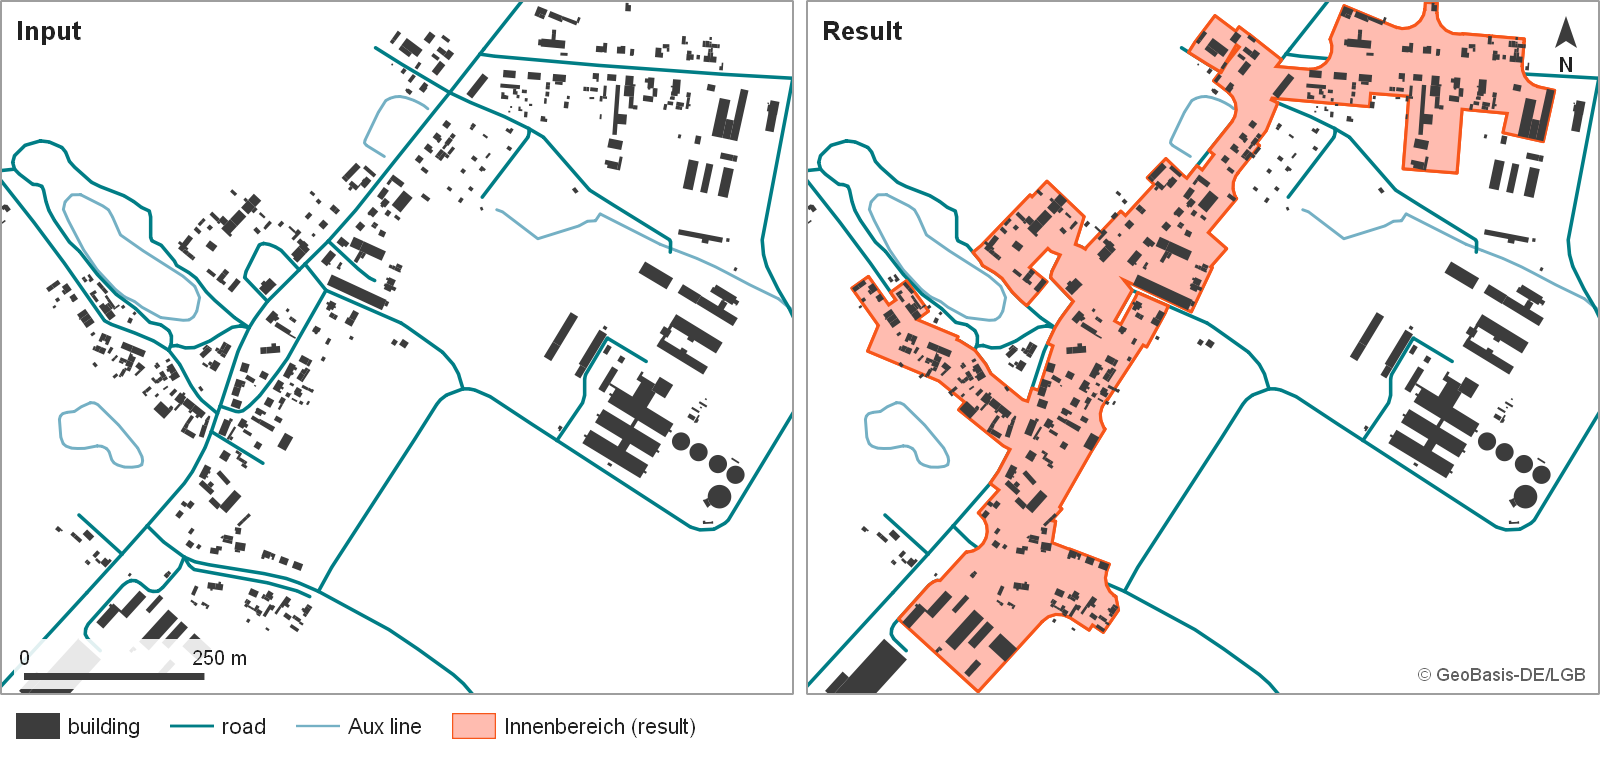
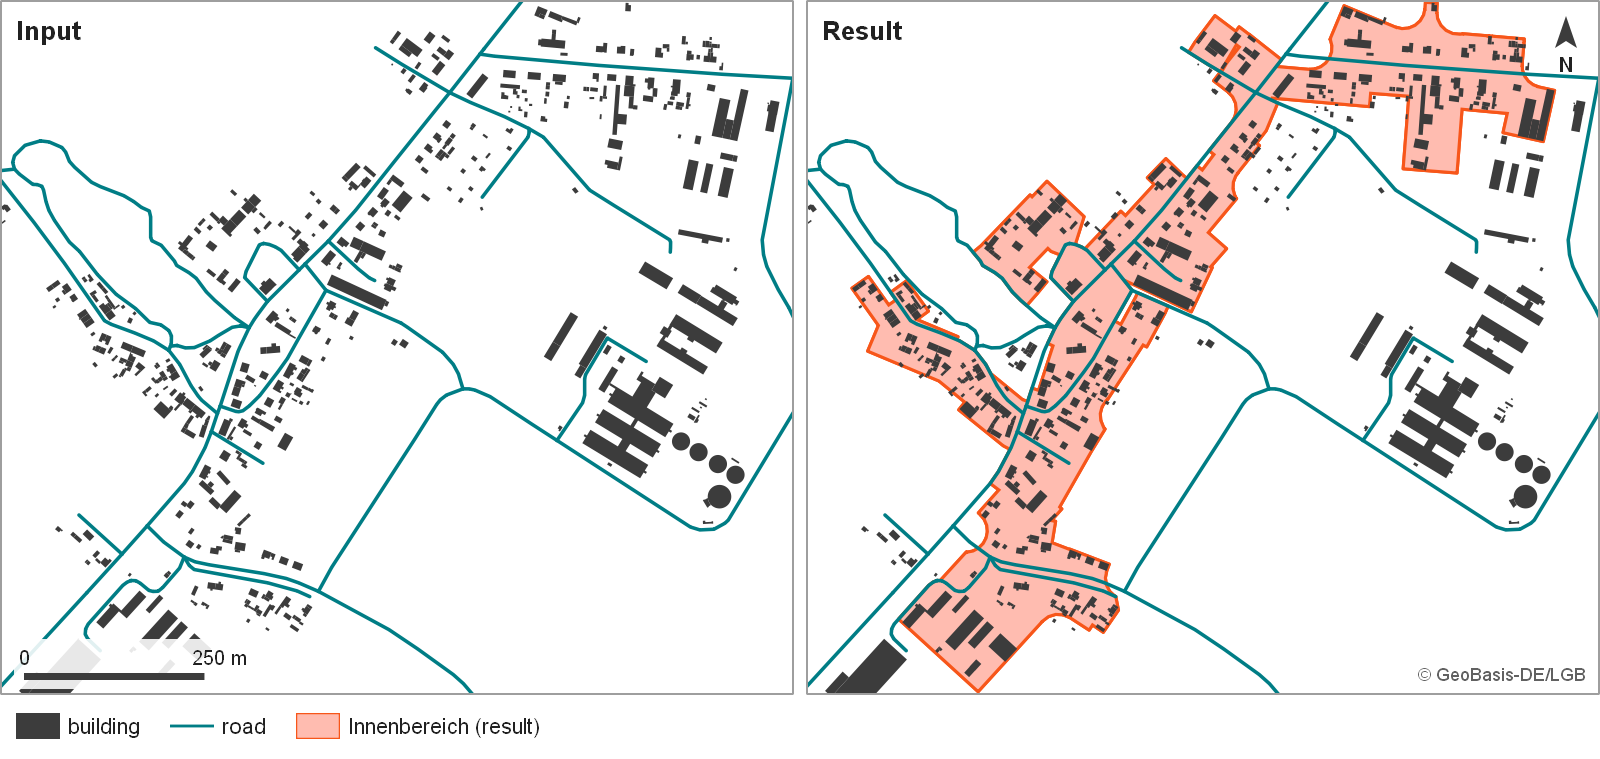
fix: remove TODO in edge filtering, localize phase labels, and refine docs/tests
- Confirmed and updated `"Area" < {area * AREA_FILTER_FACTOR}`.
- Document `_MIN_BUILDING_COUNT = 20` in ImportFilter logic.
- Phase labels localized; added matching unit test.

diff --git a/i18n/IBTool_de.ts b/i18n/IBTool_de.ts
@@ -368,6 +368,14 @@ Diese Aktion kann nicht rückgängig gemacht werden.</translation>
         <translation>Leerflächen erodieren</translation>
     </message>
     <message>
+        <source>Close Gaps</source>
+        <translation>Lücken schließen</translation>
+    </message>
+    <message>
+        <source>Remove Patches</source>
+        <translation>Splitterflächen entfernen</translation>
+    </message>
+    <message>
         <source>Save Output</source>
         <translation>Ausgabe speichern</translation>
     </message>

diff --git a/docs/img/_src/make_map_figures.py b/docs/img/_src/make_map_figures.py
@@ -73,10 +73,10 @@ FIGURES = {
         "out": "readme",
         "center": VILLAGE_CENTER, "width_m": 1100, "ratio": 7 / 8,
         "tiles": [
-            ("Input", [B_AUX, B_RN, B_HU]),
-            ("Result", [B_AUX, B_RN, B_RESULT, B_HU]),
+            ("Input", [B_RN, B_HU]),
+            ("Result", [B_RESULT, B_RN, B_HU]),
         ],
-        "legend": [(B_HU, "building"), (B_RN, "road"), (B_AUX, "Aux line"),
+        "legend": [(B_HU, "building"), (B_RN, "road"),
                    (B_RESULT, "Innenbereich (result)")],
     },
     # F16 - the line and building input layers (Part: F17, at a larger scale)

diff --git a/helpers/edge_catch_utils.py b/helpers/edge_catch_utils.py
@@ -989,7 +989,7 @@ def process_single_feature(
     shp_area2(polygons_in_block)
     polygons_small = safe_processing_run("native:extractbyexpression", {
         'INPUT': polygons_in_block,
-        'EXPRESSION': f'"Area" < {area * AREA_FILTER_FACTOR}',  # TODO: verify operator direction
+        'EXPRESSION': f'"Area" < {area * AREA_FILTER_FACTOR}',
         'OUTPUT': QgsProcessing.TEMPORARY_OUTPUT
     }, **_dbg)['OUTPUT']
 

diff --git a/docs/superpowers/plans/2026-09-24-documentation-figures.md b/docs/superpowers/plans/2026-09-24-documentation-figures.md
@@ -23,7 +23,7 @@ Tick a session when all its tasks are done. Figure IDs (F01–F22) are stable re
 - [x] Session 6 — Algorithm schematics (F10a–F10e) — *Claude drafts SVGs*
 - [x] Session 7 — Parameter figures (F12–F15) — F13–F15 done, F12 dropped
 - [x] Session 8 — Input data and data preparation figures (F16, F17, F20, F21) — F20 and F21 dropped
-- [ ] Session 9 — Optional figures (F11, F22) and final review
+- [ ] Session 9 — Optional figures (F11, F22) and final review — F11/F22 dropped; checks done, GitHub visual check open (user)
 
 Recommended order follows priority: 0 → 1 → 2 → 5 → 3 → 4 → 6 → 7 → 8 → 9.
 
@@ -198,10 +198,10 @@ No image files. Verify rendering by pushing the branch and viewing the files on 
 
 **Files:** Create `docs/img/readme/01_before_after.png`; modify `README.md` (directly below the badges, above "Quick Start")
 
-- [x] **Content:** two tiles side by side, same reference extent. Left: buildings + roads + Aux ("Input"). Right: same plus the Innenbereich result ("Result"). Tile labels in the top-left corner.
-- [ ] **Format:** PNG, 1600 × 700 px (2 × 800 × 700), display width 800.
-- [ ] Caption: *IB-Tool 3 derives the Innenbereich (§ 34 BauGB) from building footprints and the road network. Data: © GeoBasis-DE/LGB.*
-- [ ] Also suitable as screenshot for plugins.qgis.org — note this in the Session 9 review.
+- [x] **Content:** two tiles side by side, same reference extent. Left: buildings + roads ("Input"). Right: same plus the Innenbereich result, drawn beneath buildings and roads ("Result"). *No Aux lines (user review, 2026-10-04).* Tile labels in the top-left corner.
+- [x] **Format:** PNG, 1600 × 700 px (2 × 800 × 700), display width 800. *Exported at 1600 × 759 (8:7 tiles plus legend strip).*
+- [x] Caption: *IB-Tool 3 derives the Innenbereich (§ 34 BauGB) from building footprints and the road network. Data: © GeoBasis-DE/LGB.*
+- [x] Also suitable as screenshot for plugins.qgis.org — note this in the Session 9 review.
 
 ### Task F07: Expected result of the first run
 
@@ -329,9 +329,9 @@ All five SVGs are generated by `docs/img/_src/make_schematics.py` (stdlib only; 
 
 ## Session 9 — Optional figures and final review
 
-- [ ] **F11 accuracy chart (optional)** — `docs/img/how-it-works/11_accuracy.svg`, 600 × 200, horizontal bars for the three study areas. Load the `dataviz` skill before drawing.
-- [ ] **F22 Innenbereich vs. UGB (optional)** — `docs/img/terminology/22_innenbereich_vs_ugb.svg`, 700 × 300: boundary around existing development vs. policy line further out for future growth.
-- [ ] **Link check** — every `<img src=...>` points to an existing file:
+- [~] **F11 accuracy chart (optional)** — *dropped (user, 2026-10-04): the three-row table says it all.* — `docs/img/how-it-works/11_accuracy.svg`, 600 × 200, horizontal bars for the three study areas. Load the `dataviz` skill before drawing.
+- [~] **F22 Innenbereich vs. UGB (optional)** — *dropped (user, 2026-10-04): the table in `terminology.md` covers it.* — `docs/img/terminology/22_innenbereich_vs_ugb.svg`, 700 × 300: boundary around existing development vs. policy line further out for future growth.
+- [x] **Link check** — every `<img src=...>` points to an existing file *(2026-10-04: 19 referenced, none missing, no unreferenced image in `docs/img/` outside `_src/`)*:
 
 ```bash
 grep -rhoE 'img/[A-Za-z0-9_/.-]+\.(png|svg|jpg|webp)' README.md docs/*.md | sort -u | while read p; do
@@ -339,7 +339,7 @@ grep -rhoE 'img/[A-Za-z0-9_/.-]+\.(png|svg|jpg|webp)' README.md docs/*.md | sort
 done
 ```
 
-- [ ] **Size check** — no image above its size budget:
+- [x] **Size check** — no image above its size budget *(2026-10-04: no PNG > 500 KB, no SVG > 50 KB)*:
 
 ```bash
 find docs/img -type f \( -name '*.png' -o -name '*.jpg' -o -name '*.webp' \) -size +500k
@@ -347,10 +347,22 @@ find docs/img -type f -name '*.svg' -size +50k
 ```
 
 - [ ] **Visual check on GitHub** — view README and all touched docs in light **and** dark mode.
-- [ ] **Alt texts** — every `<img>` has a meaningful `alt`.
+- [x] **Alt texts** — every `<img>` has a meaningful `alt`. *(2026-10-04: all 18 figures OK; the Codecov badge in `README.md` got `alt="Code coverage"`.)*
 - [x] **plugins.qgis.org** — decided (user, 2026-10-04): F01 (`docs/img/readme/01_before_after.png`) is attached as the plugin screenshot.
-- [ ] **CHANGELOG** — add an entry to `docs/CHANGELOG.md` ("docs: add figures to user documentation").
+- [x] **CHANGELOG** — add an entry to `docs/CHANGELOG.md` ("docs: add figures to user documentation"). *(Already covered by the per-session entries under Unreleased → Docs: schematics, parameter figures, Mermaid diagrams, map series, hero image, input layers/partitions. Screenshots of Sessions 2–4 still need an entry when added.)*
 - [ ] Commit only when the user explicitly asks (per session or at the end).
+
+---
+
+## Code Findings (follow-up after Session 9)
+
+Found while producing the figures; not fixed yet. Review each one with the user, then fix as a separate bugfix task (`ai/tasks/bugfix-task.md`, test first).
+
+| ID | Location | Finding | Effect | Status |
+|---|---|---|---|---|
+| C1 | `ibtool/ibtool.py:1263` | The phase before `patch_remove()` is labelled `"Erode Empty Areas"`, but ErodeEmptyAreas and GapClose already ran before it (lines 1252–1261, without their own phase update). Phase 6 is also used twice (90 % here, 95 % "Save Output" at line 1456). | Progress label is misleading: during PatchRemove the user reads "Erode Empty Areas"; MST_Clustering through GapClose all run under "Clustering". | fixed 2026-10-04: nine phases, one label per tool (Erode Empty Areas, Close Gaps, Remove Patches); test `test_phase_label_matches_running_tool` |
+| C2 | `ibtool_tools/ImportFilter.py:178` | Guard `if building_count > min_area:` compares the feature count of `hu_layer` with the area threshold `min_area` (m², default 56.8). The docstring (lines 159–161) documents this behaviour. Otherwise the function logs a warning and returns `hu_layer` unfiltered (line 324–328). | A partition with ≤ 56 buildings skips the whole ImportFilter (no positive/negative filter, no small-building removal); changing `min_area` silently changes this count limit too. Intent unclear: a minimum building count may be wanted, but then it needs its own constant. | fixed 2026-10-04 (user: count, not area): guard `building_count > _MIN_BUILDING_COUNT` (20, as `PatchRemove.DEFAULT_MIN_BDG_COUNT`); two tests in `test_import_filter.py` |
+| C3 | `helpers/edge_catch_utils.py:992` | `"Area" < {area * AREA_FILTER_FACTOR}` carries `# TODO: verify operator direction`. | The documentation (how-it-works Step 7, schematic F10c) describes pieces **smaller** than 2 × rectangle area being kept — matches `<`. Needs confirmation against the intended algorithm, then the TODO can be removed. | fixed 2026-10-04: `<` confirmed by the user, TODO removed |
 
 ---
 
@@ -375,3 +387,6 @@ Record per session what was done and anything open, so the next session can resu
 | 2026-10-04 | 1 / 5 (rev.) | User review: (1) F08 pipeline diagram reorganised for less height — horizontal rows for inputs, global preparation, the three step groups and the output; edges connect the group boxes, so arrowheads end at the box edges; no wrapped labels (wrappingWidth 300); rendered height about 40 % lower. (2) F09-07: only the area EdgeCatch adds (computed `polygons_merged` − rectangles) is light blue, the rectangles stay pink; caption and alt text updated. | — |
 | 2026-10-04 | 2 / 7 / 8 | F01 README hero (`docs/img/readme/01_before_after.png`, 1600 × 759, Input / Result), F16 (3 tiles), F17 (partitions) exported by `make_map_figures.py` (new spec keys `out`, `center` / `width_m`, `ratio`; legend optional); F20 SVG by the new `make_data_prep_figures.py` (asserts: 3 buildings cut by the tight polygon, none at the area of interest by the generous one). Embedded in README, `input-data.md`, `data-preparation.md`. | Rulings: (1) F01 uses an 8:7 window around the whole village (1100 × 962 m, centre 439280 / 5837922), not the reference extent: the village reaches south of it, and the window lies inside PART_31 so the result is complete. (2) F16 without Part (see checkbox). (3) F12 and F21 dropped (no case in the sample). Open: F07 and Sessions 3 / 4 (screenshots, user), Session 9. |
 | 2026-10-04 | 8 / 9 | User review: F20 dropped (SVG, embed in `data-preparation.md` and `make_data_prep_figures.py` removed); F01 chosen as the plugins.qgis.org screenshot. | — |
+| 2026-10-04 | 2 (rev.) | User review F01: Aux lines removed (tiles and legend); result layer now drawn beneath roads and buildings. Re-exported (1600 × 759, 330 KB); README alt text updated. | Open: F07 (user screenshot). |
+| 2026-10-04 | 9 | Code findings C1–C3 documented (section "Code Findings"). Link check (19 images, none missing/unused), size check (all within budget), alt-text check (Codecov badge fixed) passed. CHANGELOG already covers all figures added so far. | Open: F11 / F22 decision, visual check on GitHub (user), screenshots of Sessions 2–4, then review C1–C3. |
+| 2026-10-04 | 9 | F11 and F22 dropped (user). Code findings fixed test-first: C1 phase labels (9 phases), C2 ImportFilter guard counts buildings (`_MIN_BUILDING_COUNT = 20`), C3 TODO removed. how-it-works Step 2 mentions the guard; CHANGELOG Fixed entries. Full suite 930 passed (2 known git-PATH failures in `test_create_release_zip.py`). | Open: GitHub visual check (user), screenshots Sessions 2–4. Not fixed: phase names are not passed through `tr()` in `ibtool.py`, so their German translations are unused. |

diff --git a/README.md b/README.md
@@ -3,7 +3,7 @@
 [![CI](https://github.com/IB-Tool/IB-Tool-3/actions/workflows/ci.yml/badge.svg)](https://github.com/IB-Tool/IB-Tool-3/actions/workflows/ci.yml)
 [![QGIS Plugin CI](https://github.com/IB-Tool/IB-Tool-3/actions/workflows/qgis-plugin-ci.yml/badge.svg)](https://github.com/IB-Tool/IB-Tool-3/actions/workflows/qgis-plugin-ci.yml)
 <a href="https://codecov.io/gh/IB-Tool/IB-Tool-3" > 
- <img src="https://codecov.io/gh/IB-Tool/IB-Tool-3/graph/badge.svg?token=XGTC33WCFB"/> 
+ <img src="https://codecov.io/gh/IB-Tool/IB-Tool-3/graph/badge.svg?token=XGTC33WCFB" alt="Code coverage"/> 
  </a>
 [![License: GPL-2.0-or-later](https://img.shields.io/badge/License-GPL--2.0--or--later-blue.svg)](LICENSE)
 ![QGIS](https://img.shields.io/badge/QGIS-3.40%2B-green)
@@ -11,7 +11,7 @@
 
 <p align="center">
   <img src="docs/img/readme/01_before_after.png" width="800"
-       alt="Sample village shown twice: left the input buildings, roads and auxiliary lines, right the same with the derived Innenbereich in pink">
+       alt="Sample village shown twice: left the input buildings and roads, right the same with the derived Innenbereich in pink beneath them">
 </p>
 
 *IB-Tool 3 derives the Innenbereich (§ 34 BauGB) from building footprints and the road network. Data: © GeoBasis-DE/LGB.*

diff --git a/docs/how-it-works.md b/docs/how-it-works.md
@@ -160,7 +160,7 @@ Blocks at the edge of the settlement are typically very large (they transition i
 
 ### Step 2 — ImportFilter: Three-Stage Building Filter
 
-`ImportFilter.py` removes buildings that are not relevant to Innenbereich delineation. According to BauGB § 35, certain building functions are permitted *outside* the Innenbereich (e.g. sewage treatment plants, wind turbines, livestock facilities, allotments). The filter applies three sequential stages:
+`ImportFilter.py` removes buildings that are not relevant to Innenbereich delineation. According to BauGB § 35, certain building functions are permitted *outside* the Innenbereich (e.g. sewage treatment plants, wind turbines, livestock facilities, allotments). The filter applies three sequential stages; a partition with 20 building features or fewer (counted after the split along roads) is passed through unfiltered (fixed constant `_MIN_BUILDING_COUNT`, same value as the `min_bdg_count` default):
 
 <p align="center">
   <img src="img/how-it-works/02_import_filter.png" width="800"
